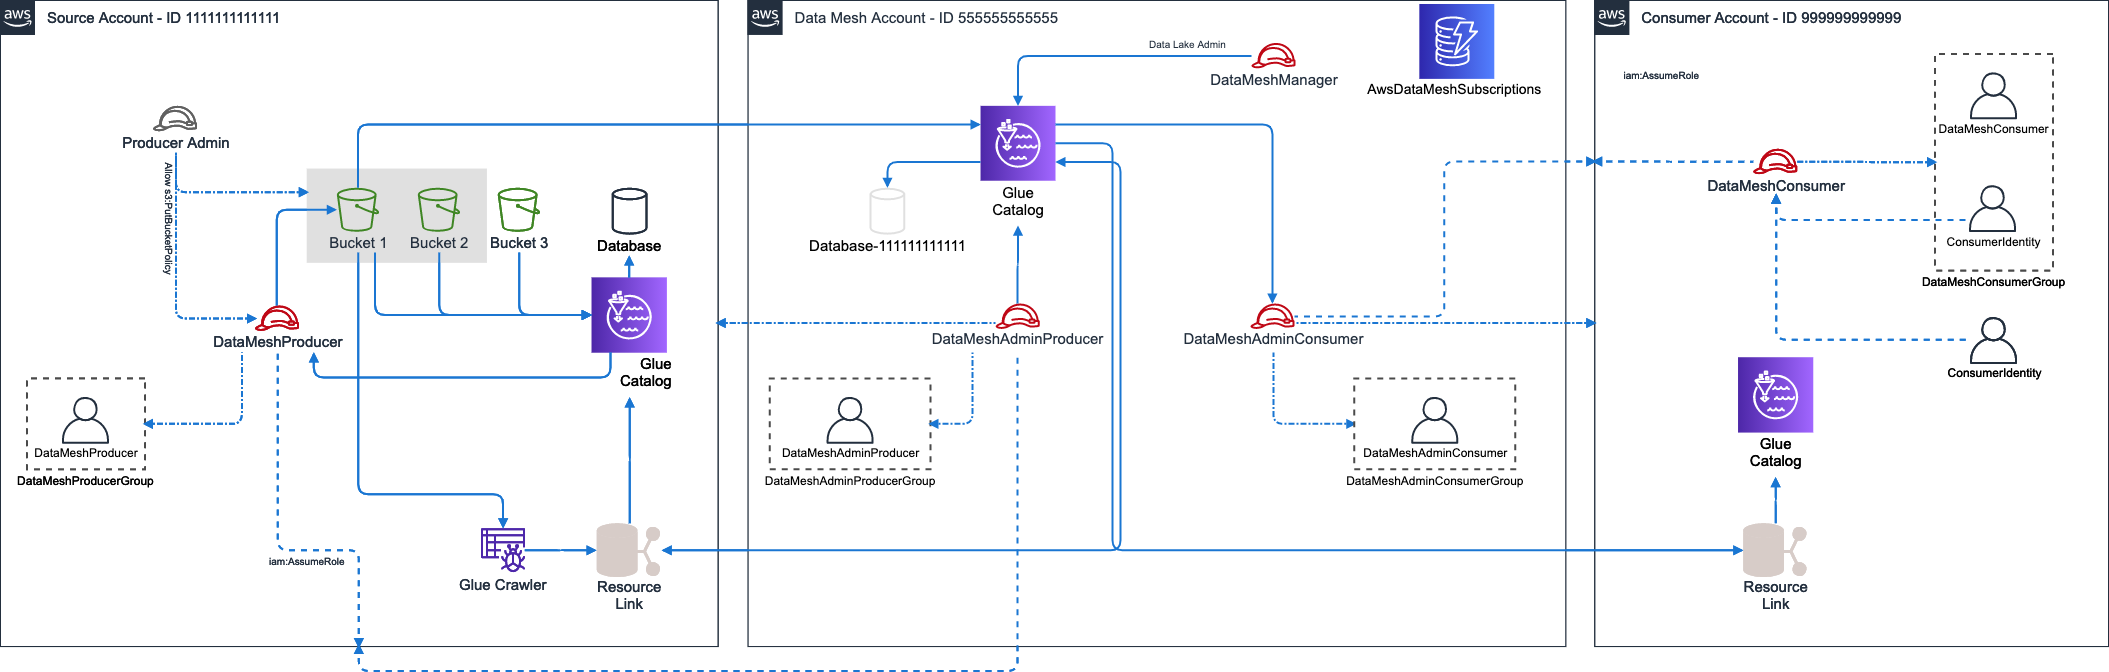
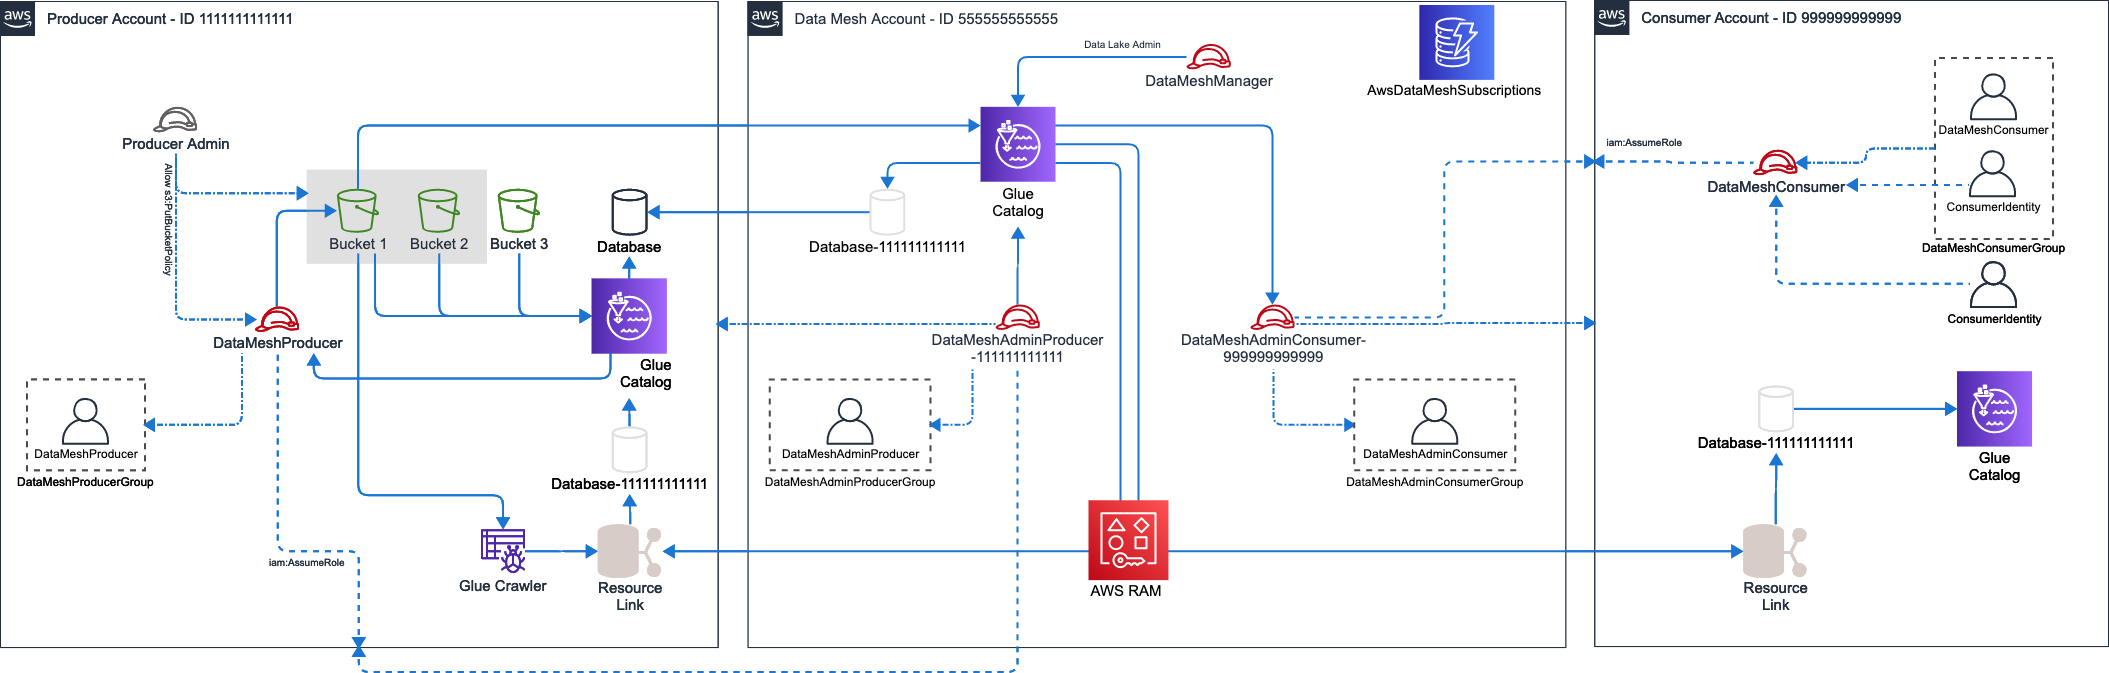
Adding more docs on usage and additional re:invent scoped method to enable an account as producer/consumer

diff --git a/test/reinvent/0_5_setup_account_as.py b/test/reinvent/0_5_setup_account_as.py
@@ -1,0 +1,64 @@
+import warnings
+import logging
+import sys
+import os
+import inspect
+import argparse
+
+two_up = os.path.dirname(os.path.dirname(os.path.dirname(os.path.abspath(inspect.getfile(inspect.currentframe())))))
+sys.path.insert(0, two_up)
+
+import test.test_utils as test_utils
+from data_mesh_util.lib.constants import *
+import data_mesh_util.lib.utils as utils
+from data_mesh_util import DataMeshAdmin as dmu
+
+warnings.filterwarnings(action="ignore", message="unclosed", category=ResourceWarning)
+
+BOTH = 'both'
+
+
+class Step0_5():
+    '''
+    Script to configure an set of accounts as central data mesh, producer, and consumer. Mesh credentials must already
+    have DataLakeAdmin permissions.
+    '''
+    _logger = logging.getLogger("DataMeshAdmin")
+    _region, _clients, _account_ids, _creds = test_utils.load_client_info_from_file()
+
+    def setUp(self) -> None:
+        warnings.filterwarnings("ignore", category=ResourceWarning)
+
+    def setup_account_as(self, account_id: str, role: str, use_credentials: dict):
+        # connect to the mesh account
+        mesh_admin = dmu.DataMeshAdmin(data_mesh_account_id=self._account_ids.get(MESH), region_name=self._region,
+                                       log_level=logging.DEBUG, use_creds=self._creds.get(MESH))
+
+        # setup the account as a producer
+        if role in [PRODUCER, BOTH]:
+            producer_admin = dmu.DataMeshAdmin(data_mesh_account_id=self._account_ids.get(MESH),
+                                               region_name=self._region,
+                                               log_level=logging.DEBUG, use_creds=use_credentials)
+            producer_admin.initialize_producer_account()
+            mesh_admin.enable_account_as_producer(account_id)
+
+        # set the account as a consumer
+        if role in [CONSUMER, BOTH]:
+            consumer_admin = dmu.DataMeshAdmin(data_mesh_account_id=self._account_ids.get(MESH),
+                                               region_name=self._region,
+                                               log_level=logging.DEBUG, use_creds=use_credentials)
+            consumer_admin.initialize_consumer_account()
+            mesh_admin.enable_account_as_consumer(account_id)
+
+
+if __name__ == '__main__':
+    parser = argparse.ArgumentParser()
+    parser.add_argument('--account_id', dest='account_id', required=True)
+    parser.add_argument('--use_role', dest='use_role', required=True, choices=[CONSUMER, PRODUCER, BOTH])
+    args = parser.parse_args()
+
+    # generate a session from the environment
+    current_session = utils.create_session(credentials=None, region=None)
+
+    Step0_5().setup_account_as(account_id=args.account_id, role=args.use_role,
+                               use_credentials=current_session.get_credentials())

diff --git a/src/data_mesh_util/lib/utils.py b/src/data_mesh_util/lib/utils.py
@@ -116,10 +116,16 @@ def _validate_credentials(credentials) -> dict:
     if isinstance(credentials, Mapping):
         out = credentials
     else:
-        # treat as a Boto3 Credentials object
-        out = {'AccessKeyId': credentials.access_key, "SecretAccessKey": credentials.secret_key}
-        if credentials.token is not None:
-            out['SessionToken'] = credentials.token
+        if credentials is not None:
+            # treat as a Boto3 Credentials object
+            out = {'AccessKeyId': credentials.access_key, "SecretAccessKey": credentials.secret_key}
+            if credentials.token is not None:
+                out['SessionToken'] = credentials.token
+        else:
+            # load from the environment
+            out = {'AccessKeyId': os.getenv('AWS_ACCESS_KEY'), "SecretAccessKey": os.getenv('AWS_SECRET_ACCESS_KEY')}
+            if credentials.token is not None:
+                out['SessionToken'] = os.getenv('AWS_SESSION_TOKEN')
 
     if out.get('AccessKeyId') is None or out.get('SecretAccessKey') is None:
         raise Exception('Malformed Credentials - missing AccessKeyId or SecretAccessKey')
@@ -136,6 +142,8 @@ def create_session(credentials=None, region=None):
         }
         if region is not None:
             args["region_name"] = region
+        else:
+            args["region_name"] = os.getenv('AWS_REGION')
 
         if 'SessionToken' in use_creds:
             args['aws_session_token'] = use_creds.get('SessionToken')

diff --git a/src/data_mesh_util/lib/ApiAutomator.py b/src/data_mesh_util/lib/ApiAutomator.py
@@ -375,6 +375,8 @@ class ApiAutomator:
         except glue_client.exceptions.AlreadyExistsException:
             pass
 
+        self._logger.info(f"Verified Database {database_name}")
+
     def set_default_db_permissions(self, database_name: str):
         glue_client = self._get_client('glue')
 
@@ -521,6 +523,7 @@ class ApiAutomator:
 
         get_response = ram_client.get_resource_share_invitations()
 
+        accepted_share = False
         for r in get_response.get('resourceShareInvitations'):
             # only accept peding lakeformation shares from the source account
             if r.get('senderAccountId') == sender_account and 'LakeFormation' in r.get('resourceShareName') and r.get(
@@ -529,4 +532,8 @@ class ApiAutomator:
                     ram_client.accept_resource_share_invitation(
                         resourceShareInvitationArn=r.get('resourceShareInvitationArn')
                     )
+                    accepted_share = True
                     self._logger.info(f"Accepted RAM Share {r.get('resourceShareInvitationArn')}")
+
+        if accepted_share is False:
+            self._logger.info("No Pending RAM Shares to Accept")

diff --git a/test/TESTING.md b/test/TESTING.md
@@ -1,0 +1,53 @@
+# Tests for Data Mesh Utils
+
+In this directory you will find various tests that show the functionality of the Data Mesh Utility, including:
+
+* `data_mesh_account_tests.py`: Tests which set up the central Data Mesh Account
+* `producer_account_tests.py`: Tests for the Producer side of data production creation and subscription access
+* `consumer_account_tests.py`: Tests for a Consumer to request access to a product and import subscription objects
+* `integration.py`: Full integration test showing configuration of the central mesh account, creation of a data product, request of access, and granting access for a consumer.
+
+## Getting Started
+
+Each test requires the configuration of a `CredentialsFile` environment variable, which is a JSON document on your 
+filesystem that provides access to the Accounts to be used across the Test Suite. The structure of this file is shown 
+below, or you can start with `sample_test_creds.json`.
+
+```json
+{
+  "AWS_REGION": "us-east-1",
+  "Mesh": {
+    "AccountId": "",
+    "AccessKeyId": "",
+    "SecretAccessKey": ""
+  },
+  "Producer": {
+    "AccountId": "",
+    "AccessKeyId": "",
+    "SecretAccessKey": ""
+  },
+  "ProducerAdmin":{
+    "AccountId": "",
+    "AccessKeyId": "",
+    "SecretAccessKey": ""
+  },
+  "Consumer": {
+    "AccountId": "",
+    "AccessKeyId": "",
+    "SecretAccessKey": ""
+  },
+  "ConsumerAdmin": {
+    "AccountId": "",
+    "AccessKeyId": "",
+    "SecretAccessKey": ""
+  }
+}
+```
+
+This file allows for the configuration of multiple accounts, for the Data Mesh, and then a "normal" user and Administration
+user for both the producer and consumer. Please note that the keys of this document are reserved and cannot be changed or extended
+(`Mesh`, `Producer`, `ProducerAdmin`, `Consumer`, and `ConsumerAdmin` are all reserved words).
+
+In general, you should start by configuring administrative users `Mesh`, `ProducerAdmin`, and `Consumer` administrators. You can then
+setup the core Data Mesh functionality, and then add `Producer` and `Consumer` entries from the respective accounts after
+enabling Access Keys for the created `DataMeshProducer` and `DataMeshConsumer` sample users.
